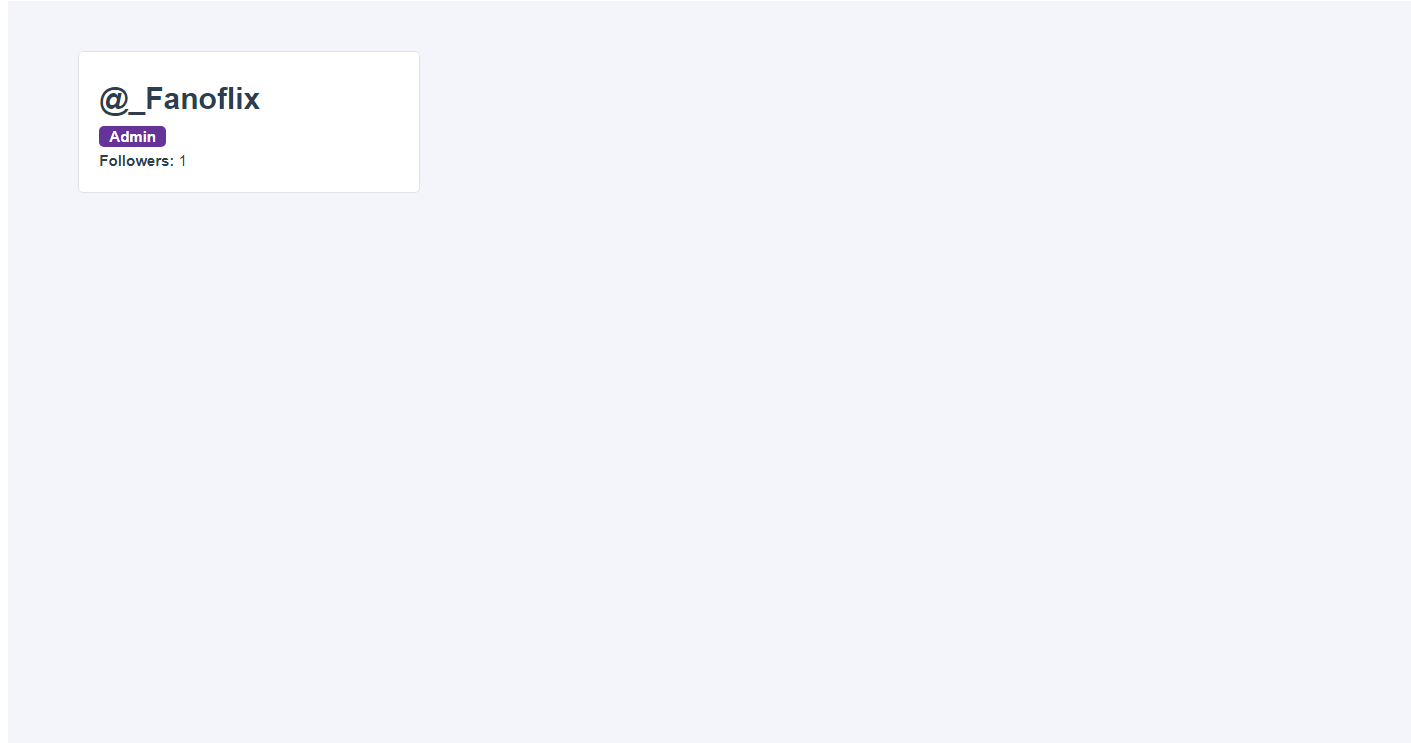
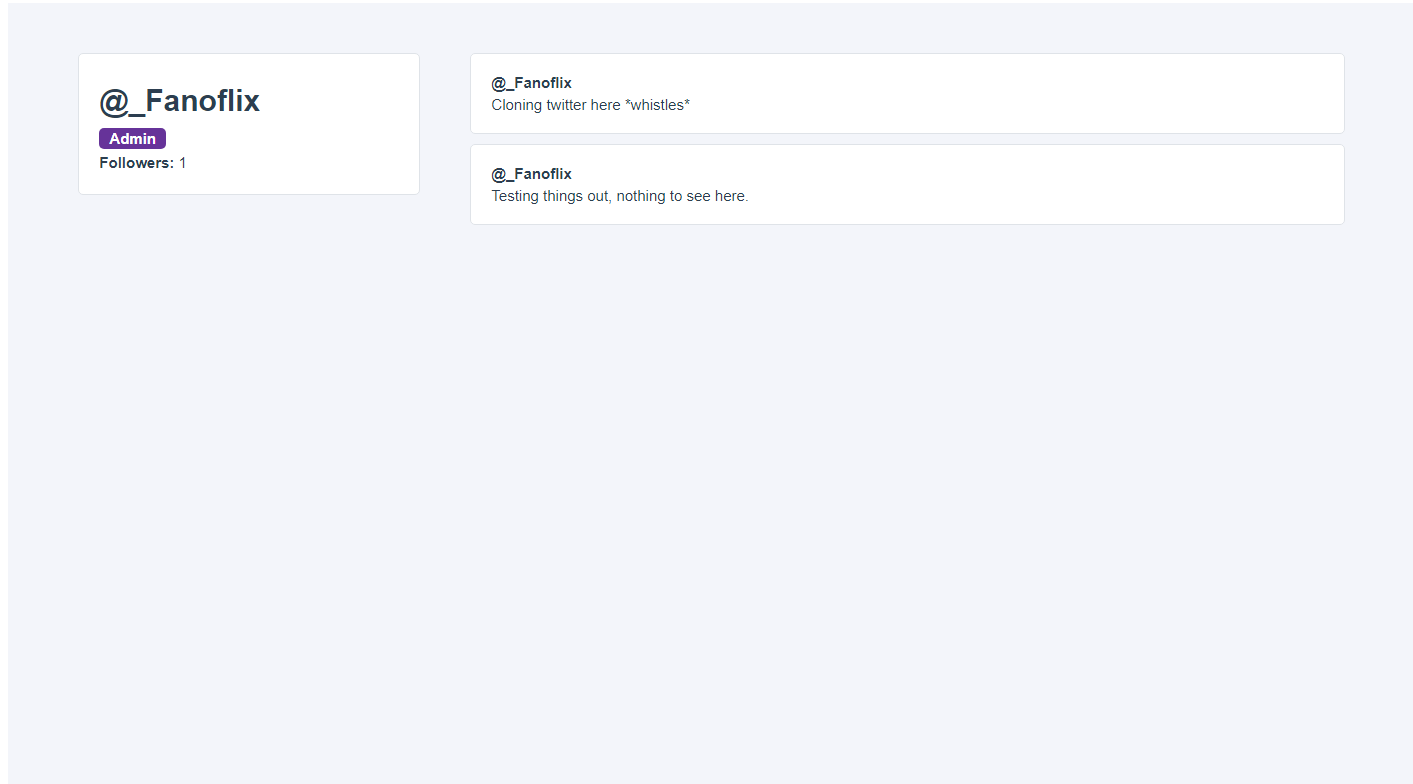
Update TweetItem Styling
Updated Image

Changed region(s): [[0.0624, 0.0929, 0.1871, 0.2476], [0.343, 0.2167, 0.5301, 0.2786], [0.343, 0.0929, 0.4989, 0.1548]]

diff --git a/src/components/TweetItem.vue b/src/components/TweetItem.vue
@@ -9,6 +9,7 @@
             </div>
         </div>
     </div>
+    <div class="gap"></div>
 </template>
 
 
@@ -47,6 +48,11 @@ export default {
 
 .tweet-item__user {
     font-weight: bold;
+    padding-bottom: 5px;
+}
+
+.gap {
+    height: 10px;
 }
 
 </style>
